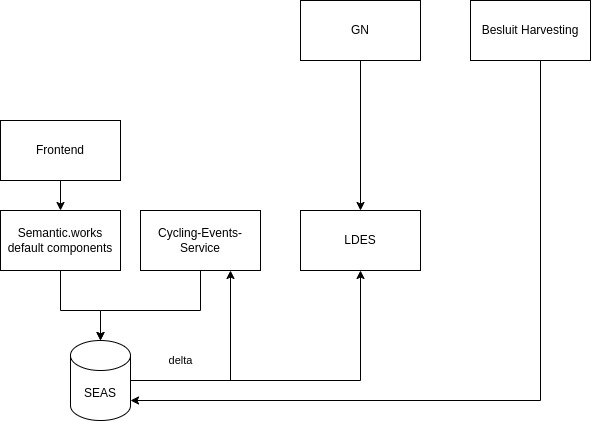
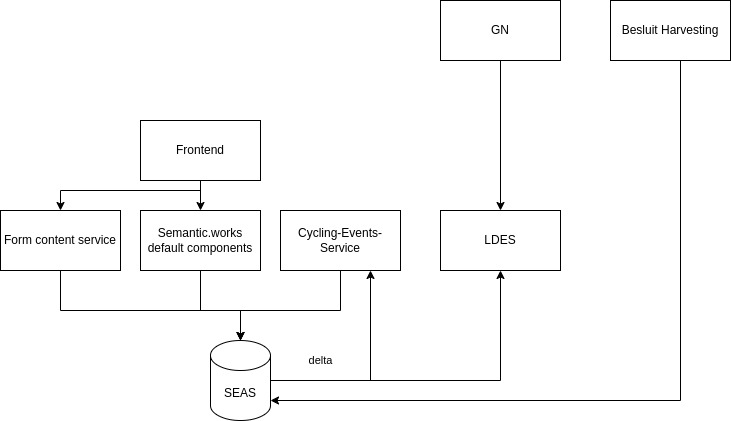
frontend and form-content service

diff --git a/Architecture.md b/Architecture.md
@@ -8,6 +8,16 @@ This file briefly describes the architecture envisaged in this hackathon
 
 This box abstracts away the default components of a semantic.works stack, like the identifier, dispatcher, login, resources, ... components. There is not much special about them
 
+## Form Content Service
+
+This service was developed as part of LMB and is now used to enter the data regarding the Request directly as linked open data in our database through Semantic Forms (included in the frontend).
+
+## Frontend
+
+An ember application. Normally this is not special, but it is mentioned here because it includes the Semantic Forms through the Form builder service so we can easily create our forms in the form builder, giving us easy extensibility while ALSO being correct according to the linked data model.
+
+Only basic information is captured using forms for this hackathon. Route segments are created the 'oldfashioned way' in Ember directly using resources. This is because that model is more complex and because we had to deal with 'has-many' relations, which would needlessly take time during the hackathon. However, in a real application we would advocate also using forms here, simply use a form per route segment.
+
 ## LDES
 
 This feed watches for delta messages published by the SEAS database and publishes Agendapunten that are created so Gelinkt Notuleren (GN) can pick them up. The AgendaPunt instances are created by the Cycling Events service (see later).
